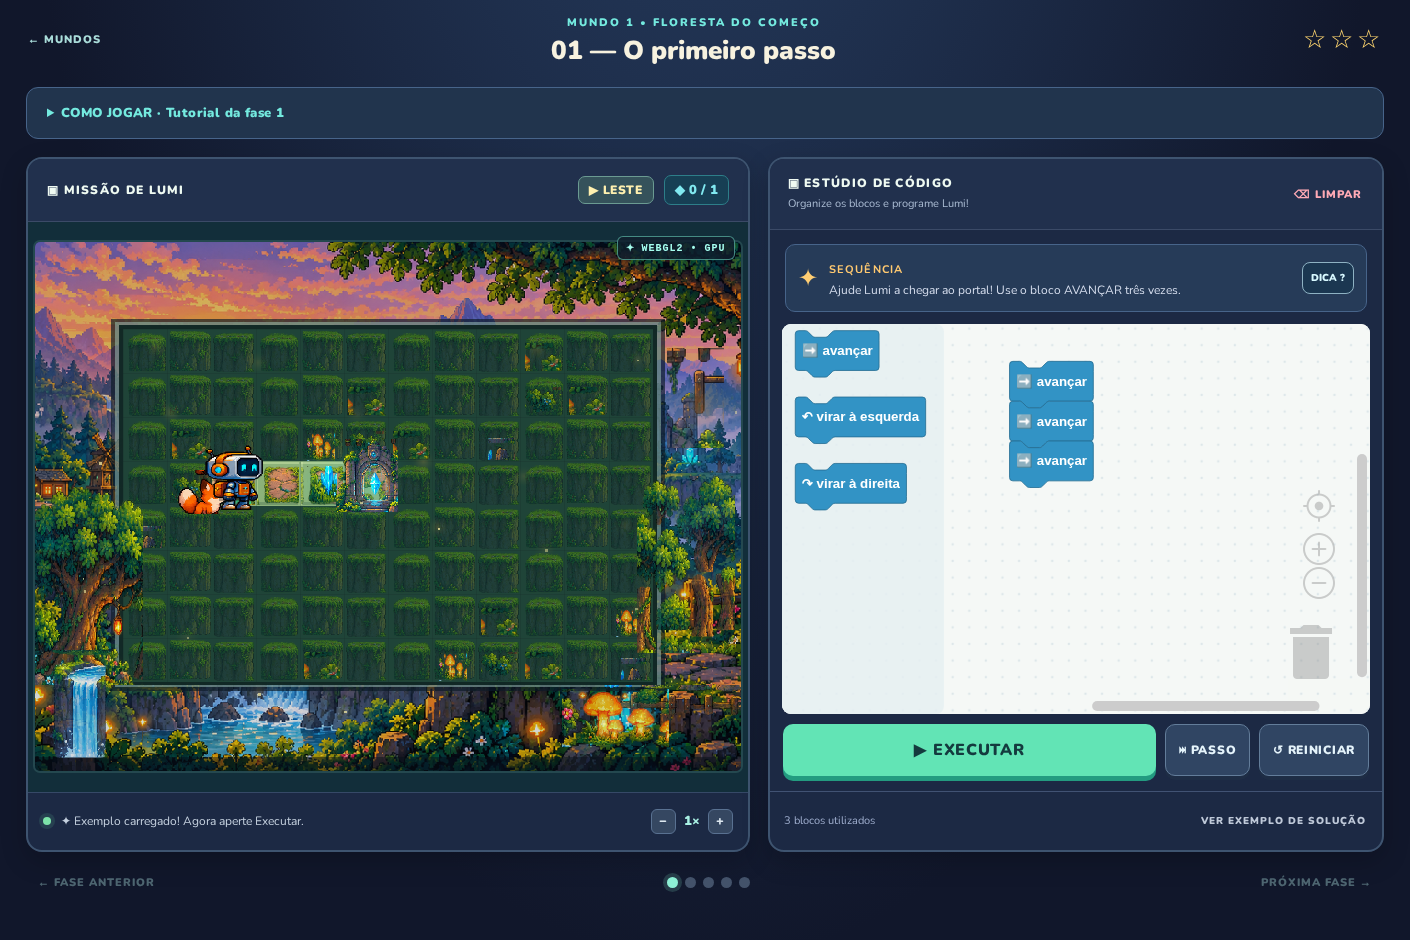
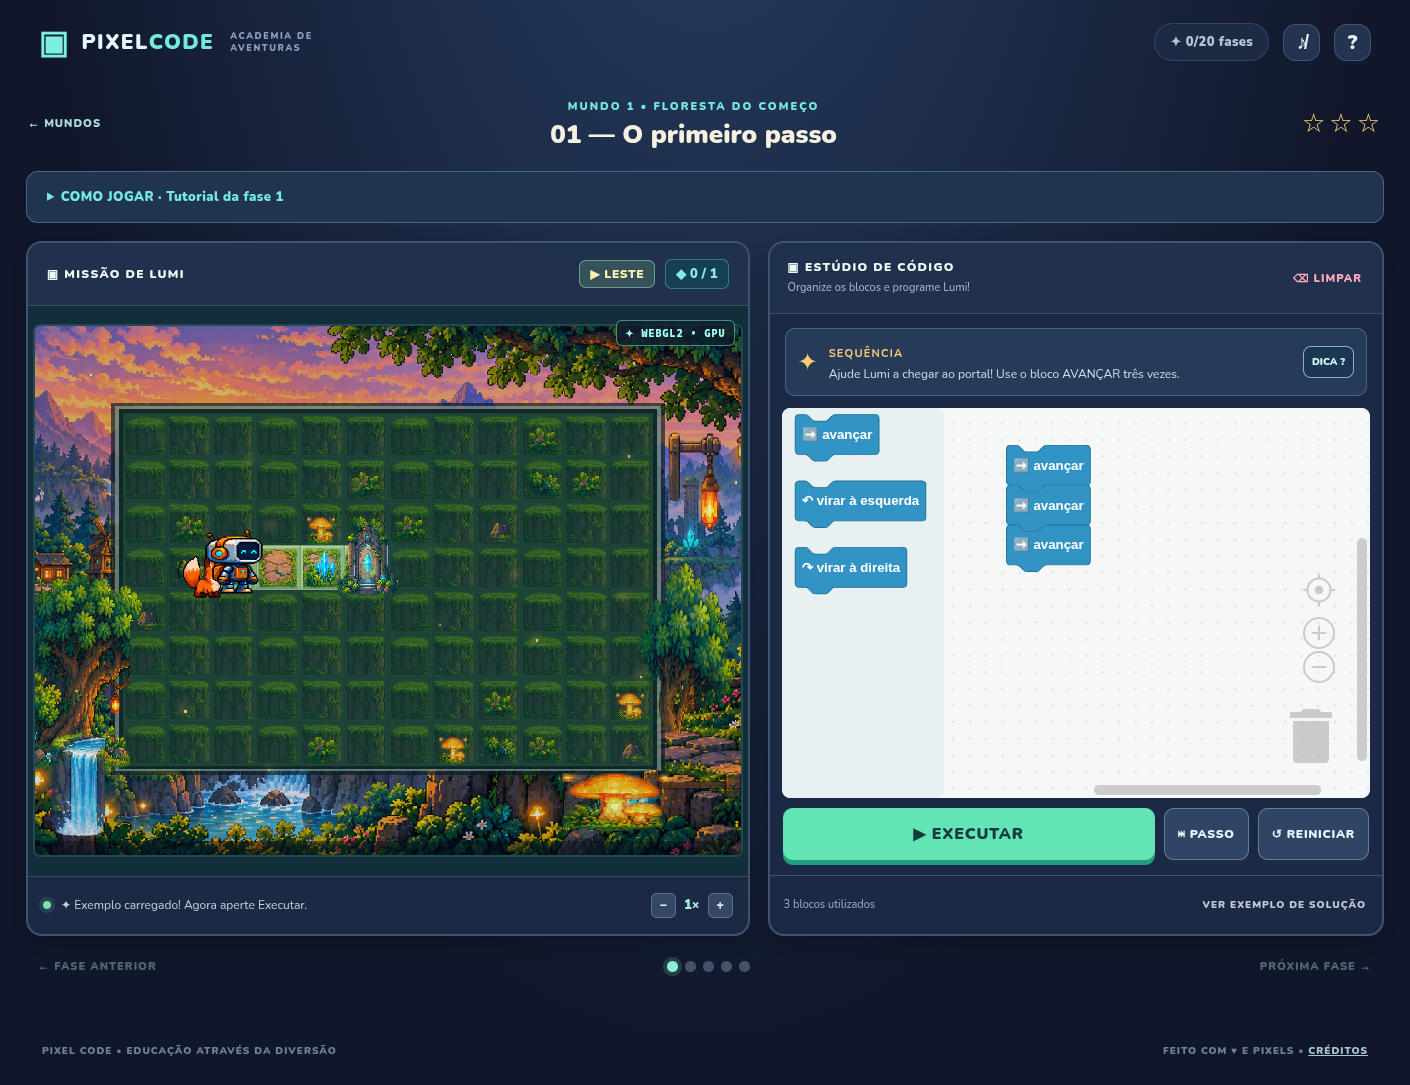
Fix sprite crops and refresh README screenshots

diff --git a/assets/art/gpu-atlas.js b/assets/art/gpu-atlas.js
@@ -1,1 +1,1 @@
-window.PIXEL_GPU_ATLAS={"width":2048,"height":2048,"frames":{"valley":{"x":2,"y":2,"w":1152,"h":648},"tree0":{"x":1156,"y":2,"w":317,"h":361},"tree1":{"x":1475,"y":2,"w":260,"h":341},"portal_new":{"x":1737,"y":2,"w":219,"h":279},"tree2":{"x":2,"y":652,"w":208,"h":254},"ruin1":{"x":212,"y":652,"w":111,"h":247},"ruin0":{"x":325,"y":652,"w":101,"h":240},"waterfall":{"x":428,"y":652,"w":133,"h":214},"waterfall2":{"x":563,"y":652,"w":152,"h":209},"robot_jump_0":{"x":717,"y":652,"w":144,"h":190},"robot_jump_4":{"x":863,"y":652,"w":128,"h":190},"robot_jump_5":{"x":993,"y":652,"w":163,"h":190},"robot_idle_2":{"x":1158,"y":652,"w":125,"h":181},"robot_idle_3":{"x":1285,"y":652,"w":122,"h":181},"robot_idle_5":{"x":1409,"y":652,"w":122,"h":181},"robot_idle_4":{"x":1533,"y":652,"w":123,"h":180},"robot_idle_1":{"x":1658,"y":652,"w":122,"h":179},"robot_idle_0":{"x":1782,"y":652,"w":124,"h":178},"robot_jump_1":{"x":2,"y":908,"w":157,"h":178},"robot_jump_2":{"x":161,"y":908,"w":171,"h":178},"robot_jump_3":{"x":334,"y":908,"w":177,"h":178},"robot_celebrate_0":{"x":513,"y":908,"w":183,"h":169},"robot_celebrate_1":{"x":698,"y":908,"w":179,"h":169},"robot_celebrate_2":{"x":879,"y":908,"w":178,"h":169},"robot_celebrate_3":{"x":1059,"y":908,"w":188,"h":169},"robot_celebrate_4":{"x":1249,"y":908,"w":182,"h":169},"robot_celebrate_5":{"x":1433,"y":908,"w":181,"h":169},"robot_walk_5":{"x":1616,"y":908,"w":141,"h":159},"robot_walk_6":{"x":1759,"y":908,"w":136,"h":159},"robot_walk_7":{"x":1897,"y":908,"w":143,"h":159},"robot_walk_0":{"x":2,"y":1088,"w":115,"h":158},"robot_walk_1":{"x":119,"y":1088,"w":116,"h":158},"robot_walk_2":{"x":237,"y":1088,"w":115,"h":158},"robot_walk_3":{"x":354,"y":1088,"w":113,"h":158},"robot_walk_4":{"x":469,"y":1088,"w":112,"h":158},"fox_happy_0":{"x":583,"y":1088,"w":203,"h":157},"fox_happy_1":{"x":788,"y":1088,"w":197,"h":157},"fox_happy_2":{"x":987,"y":1088,"w":186,"h":157},"fox_happy_3":{"x":1175,"y":1088,"w":256,"h":157},"robot_interact_0":{"x":1433,"y":1088,"w":150,"h":156},"robot_interact_4":{"x":1585,"y":1088,"w":196,"h":156},"robot_interact_5":{"x":1783,"y":1088,"w":180,"h":156},"ground1":{"x":2,"y":1248,"w":167,"h":154},"fox_idle_0":{"x":171,"y":1248,"w":168,"h":151},"fox_idle_1":{"x":341,"y":1248,"w":169,"h":151},"fox_idle_2":{"x":512,"y":1248,"w":170,"h":151},"fox_idle_3":{"x":684,"y":1248,"w":168,"h":151},"ground2":{"x":854,"y":1248,"w":126,"h":150},"fox_jump_0":{"x":982,"y":1248,"w":230,"h":147},"fox_jump_3":{"x":1214,"y":1248,"w":316,"h":147},"fox_wag_0":{"x":1532,"y":1248,"w":180,"h":146},"fox_wag_1":{"x":1714,"y":1248,"w":225,"h":146},"fox_wag_3":{"x":2,"y":1404,"w":206,"h":146},"fox_sit_3":{"x":210,"y":1404,"w":205,"h":145},"fox_jump_1":{"x":417,"y":1404,"w":250,"h":145},"lamp":{"x":669,"y":1404,"w":93,"h":145},"robot_run_0":{"x":764,"y":1404,"w":121,"h":142},"robot_run_3":{"x":887,"y":1404,"w":142,"h":142},"robot_run_5":{"x":1031,"y":1404,"w":145,"h":142},"robot_run_7":{"x":1178,"y":1404,"w":164,"h":142},"fox_sit_0":{"x":1344,"y":1404,"w":150,"h":142},"robot_run_1":{"x":1496,"y":1404,"w":145,"h":141},"fox_run_0":{"x":1643,"y":1404,"w":265,"h":141},"fox_run_1":{"x":2,"y":1552,"w":261,"h":141},"fox_run_2":{"x":265,"y":1552,"w":266,"h":141},"fox_run_3":{"x":533,"y":1552,"w":286,"h":141},"robot_run_2":{"x":821,"y":1552,"w":141,"h":140},"robot_run_4":{"x":964,"y":1552,"w":139,"h":140},"robot_run_6":{"x":1105,"y":1552,"w":141,"h":139},"fox_sit_1":{"x":1248,"y":1552,"w":166,"h":138},"fox_walk_0":{"x":1416,"y":1552,"w":215,"h":137},"fox_walk_1":{"x":1633,"y":1552,"w":216,"h":137},"fox_walk_2":{"x":2,"y":1695,"w":205,"h":137},"fox_walk_3":{"x":209,"y":1695,"w":240,"h":137},"fox_sit_2":{"x":451,"y":1695,"w":168,"h":136},"fox_jump_2":{"x":621,"y":1695,"w":285,"h":136},"robot_interact_1":{"x":908,"y":1695,"w":154,"h":135},"robot_interact_2":{"x":1064,"y":1695,"w":175,"h":135},"robot_interact_3":{"x":1241,"y":1695,"w":185,"h":135},"bridge":{"x":1428,"y":1695,"w":187,"h":135},"light":{"x":1617,"y":1695,"w":128,"h":128},"fox_wag_2":{"x":1747,"y":1695,"w":202,"h":122},"shroom":{"x":2,"y":1834,"w":238,"h":121},"ground0":{"x":242,"y":1834,"w":134,"h":118},"path2":{"x":378,"y":1834,"w":118,"h":107},"path4":{"x":498,"y":1834,"w":114,"h":107},"path5":{"x":614,"y":1834,"w":111,"h":106},"path0":{"x":727,"y":1834,"w":115,"h":105},"path3":{"x":844,"y":1834,"w":111,"h":105},"path1":{"x":957,"y":1834,"w":108,"h":102},"crystal1":{"x":1067,"y":1834,"w":161,"h":99},"crate":{"x":1230,"y":1834,"w":91,"h":90},"bush0":{"x":1323,"y":1834,"w":94,"h":80},"bush1":{"x":1419,"y":1834,"w":112,"h":80},"fence":{"x":1533,"y":1834,"w":353,"h":78},"sign":{"x":2,"y":1957,"w":168,"h":74},"crystal0":{"x":172,"y":1957,"w":108,"h":70},"rocks":{"x":282,"y":1957,"w":139,"h":64},"bush2":{"x":423,"y":1957,"w":66,"h":57},"white":{"x":491,"y":1957,"w":2,"h":2}}};
+window.PIXEL_GPU_ATLAS={"width":2048,"height":2048,"frames":{"valley":{"x":2,"y":2,"w":1152,"h":648},"tree0":{"x":1156,"y":2,"w":330,"h":382},"portal_new":{"x":1488,"y":2,"w":339,"h":298},"ruin0":{"x":1829,"y":2,"w":110,"h":256},"waterfall2":{"x":2,"y":652,"w":163,"h":240},"waterfall":{"x":167,"y":652,"w":127,"h":218},"tree1":{"x":296,"y":652,"w":223,"h":190},"ruin1":{"x":521,"y":652,"w":92,"h":182},"robot_idle_2":{"x":615,"y":652,"w":125,"h":181},"robot_idle_3":{"x":742,"y":652,"w":122,"h":181},"robot_idle_5":{"x":866,"y":652,"w":122,"h":181},"robot_idle_4":{"x":990,"y":652,"w":123,"h":180},"robot_idle_1":{"x":1115,"y":652,"w":122,"h":179},"robot_idle_0":{"x":1239,"y":652,"w":124,"h":178},"bridge":{"x":1365,"y":652,"w":163,"h":177},"robot_jump_2":{"x":1530,"y":652,"w":150,"h":168},"robot_jump_1":{"x":1682,"y":652,"w":131,"h":166},"robot_celebrate_2":{"x":1815,"y":652,"w":180,"h":163},"robot_celebrate_4":{"x":2,"y":894,"w":165,"h":161},"fox_happy_2":{"x":169,"y":894,"w":215,"h":161},"robot_walk_5":{"x":386,"y":894,"w":115,"h":159},"robot_walk_6":{"x":503,"y":894,"w":116,"h":159},"robot_walk_0":{"x":621,"y":894,"w":115,"h":158},"robot_walk_1":{"x":738,"y":894,"w":116,"h":158},"robot_walk_2":{"x":856,"y":894,"w":115,"h":158},"robot_walk_3":{"x":973,"y":894,"w":113,"h":158},"robot_walk_4":{"x":1088,"y":894,"w":114,"h":158},"robot_walk_7":{"x":1204,"y":894,"w":111,"h":158},"robot_celebrate_5":{"x":1317,"y":894,"w":150,"h":158},"robot_celebrate_0":{"x":1469,"y":894,"w":168,"h":157},"robot_celebrate_3":{"x":1639,"y":894,"w":182,"h":157},"robot_run_7":{"x":1823,"y":894,"w":128,"h":156},"robot_interact_0":{"x":2,"y":1057,"w":116,"h":156},"robot_interact_2":{"x":120,"y":1057,"w":165,"h":156},"robot_interact_4":{"x":287,"y":1057,"w":159,"h":156},"ground1":{"x":448,"y":1057,"w":172,"h":156},"robot_run_3":{"x":622,"y":1057,"w":127,"h":155},"robot_run_5":{"x":751,"y":1057,"w":149,"h":155},"robot_interact_1":{"x":902,"y":1057,"w":157,"h":155},"robot_interact_3":{"x":1061,"y":1057,"w":159,"h":155},"robot_run_1":{"x":1222,"y":1057,"w":129,"h":154},"fox_happy_3":{"x":1353,"y":1057,"w":198,"h":154},"robot_run_2":{"x":1553,"y":1057,"w":140,"h":153},"robot_run_4":{"x":1695,"y":1057,"w":134,"h":153},"robot_jump_3":{"x":1831,"y":1057,"w":140,"h":153},"robot_run_6":{"x":2,"y":1215,"w":142,"h":152},"robot_run_0":{"x":146,"y":1215,"w":136,"h":151},"fox_idle_0":{"x":284,"y":1215,"w":168,"h":151},"fox_idle_1":{"x":454,"y":1215,"w":169,"h":151},"fox_idle_2":{"x":625,"y":1215,"w":170,"h":151},"fox_idle_3":{"x":797,"y":1215,"w":168,"h":151},"ground2":{"x":967,"y":1215,"w":129,"h":151},"robot_interact_5":{"x":1098,"y":1215,"w":117,"h":150},"fox_happy_0":{"x":1217,"y":1215,"w":203,"h":149},"fox_sit_0":{"x":1422,"y":1215,"w":150,"h":147},"robot_jump_0":{"x":1574,"y":1215,"w":120,"h":145},"fox_happy_1":{"x":1696,"y":1215,"w":195,"h":145},"fox_walk_0":{"x":2,"y":1369,"w":215,"h":144},"fox_sit_1":{"x":219,"y":1369,"w":166,"h":144},"robot_jump_5":{"x":387,"y":1369,"w":119,"h":143},"robot_celebrate_1":{"x":508,"y":1369,"w":159,"h":143},"fox_walk_1":{"x":669,"y":1369,"w":216,"h":143},"fox_walk_2":{"x":887,"y":1369,"w":218,"h":143},"fox_walk_3":{"x":1107,"y":1369,"w":206,"h":143},"robot_jump_4":{"x":1315,"y":1369,"w":128,"h":142},"fox_sit_2":{"x":1445,"y":1369,"w":168,"h":141},"sign":{"x":1615,"y":1369,"w":79,"h":141},"fox_sit_3":{"x":1696,"y":1369,"w":154,"h":140},"fox_wag_0":{"x":1852,"y":1369,"w":180,"h":138},"fox_wag_1":{"x":2,"y":1515,"w":191,"h":134},"fox_wag_2":{"x":195,"y":1515,"w":202,"h":134},"fox_wag_3":{"x":399,"y":1515,"w":203,"h":134},"fox_run_3":{"x":604,"y":1515,"w":252,"h":132},"fox_run_2":{"x":858,"y":1515,"w":246,"h":131},"fox_run_1":{"x":1106,"y":1515,"w":254,"h":130},"fox_jump_1":{"x":1362,"y":1515,"w":256,"h":129},"light":{"x":1620,"y":1515,"w":128,"h":128},"fox_run_0":{"x":1750,"y":1515,"w":271,"h":127},"fox_jump_0":{"x":2,"y":1651,"w":230,"h":126},"fox_jump_2":{"x":234,"y":1651,"w":255,"h":125},"crystal1":{"x":491,"y":1651,"w":123,"h":125},"path2":{"x":616,"y":1651,"w":220,"h":119},"path4":{"x":838,"y":1651,"w":176,"h":119},"ground0":{"x":1016,"y":1651,"w":128,"h":118},"path3":{"x":1146,"y":1651,"w":124,"h":116},"shroom":{"x":1272,"y":1651,"w":105,"h":116},"fox_jump_3":{"x":1379,"y":1651,"w":242,"h":111},"path0":{"x":1623,"y":1651,"w":113,"h":101},"path1":{"x":1738,"y":1651,"w":113,"h":101},"crate":{"x":1853,"y":1651,"w":79,"h":100},"lamp":{"x":1934,"y":1651,"w":89,"h":93},"tree2":{"x":2,"y":1779,"w":111,"h":90},"path5":{"x":115,"y":1779,"w":107,"h":87},"crystal0":{"x":224,"y":1779,"w":104,"h":83},"bush0":{"x":330,"y":1779,"w":94,"h":81},"bush1":{"x":426,"y":1779,"w":99,"h":75},"rocks":{"x":527,"y":1779,"w":90,"h":69},"fence":{"x":619,"y":1779,"w":161,"h":64},"bush2":{"x":782,"y":1779,"w":71,"h":49},"white":{"x":855,"y":1779,"w":2,"h":2}}};

diff --git a/tools/build_atlas.py b/tools/build_atlas.py
@@ -2,7 +2,7 @@
 """Rebuild the local WebGL atlas from the four original commissioned pixel-art sources.
 No asset downloaded at runtime. The transparent sprite strips are exported for the UI.
 """
-from PIL import Image, ImageDraw, ImageFilter
+from PIL import Image, ImageDraw, ImageChops
 from pathlib import Path
 import json,math
 BASE=Path(__file__).resolve().parents[1]; ART=BASE/'assets'/'art';SRC=ART/'source'
@@ -12,6 +12,39 @@ fox=Image.open(SRC/'fox-sheet.png').convert('RGBA')
 tiles=Image.open(SRC/'forest-kit.png').convert('RGBA')
 back=Image.open(SRC/'enchanted-valley.png').convert('RGBA')
 assets={}
+# Non-rectangular boundaries separate artwork that overlaps neighboring rows.
+outlines={
+ 'robot_run_3':[(630,390),(775,390),(775,555),(676,555),(676,550),(662,550),(662,555),(630,555)],
+ 'robot_jump_2':[(555,554),(650,554),(650,548),(685,548),(685,554),(730,554),(730,725),(555,725)],
+ 'robot_interact_2':[(575,748),(760,748),(760,900),(700,900),(700,912),(575,912)],
+ 'robot_celebrate_0':[(236,913),(410,913),(410,1080),(230,1080),(230,1011),(236,1011)],
+ 'robot_celebrate_2':[(598,909),(700,909),(700,904),(790,904),(790,1080),(598,1080)],
+ 'tree0':[(7,382),(50,382),(50,365),(318,365),(337,400),(337,452),(301,452),(301,739),(7,739)],
+ 'tree1':[(454,401),(489,401),(489,370),(620,370),(660,410),(660,527),(544,553),(544,688),(478,688),(478,518),(437,497),(437,436),(454,436)],
+ 'tree2':[(341,380),(452,380),(452,440),(416,440),(416,470),(378,470),(378,439),(341,439)],
+ 'bush0':[(402,596),(484,596),(484,660),(470,677),(390,677),(390,622),(402,622)],
+ 'bush1':[(397,677),(470,677),(470,695),(496,695),(496,752),(397,752)],
+ 'crystal0':[(731,670),(788,670),(788,698),(803,698),(803,753),(699,753),(699,695),(731,695)],
+ 'crystal1':[(866,690),(947,690),(947,748),(974,748),(974,815),(851,815),(851,752),(866,752)],
+ 'portal_new':[(1040,445),(1090,445),(1090,416),(1211,416),(1211,451),(1267,451),(1267,604),(1321,641),(1321,714),(982,714),(982,610),(1039,580)],
+ 'ruin0':[(795,419),(901,419),(901,675),(790,675),(790,640),(799,640),(799,500),(790,500)],
+ 'ruin1':[(922,443),(1014,443),(1014,625),(950,625),(950,520),(922,520)],
+ 'bridge':[(1041,265),(1204,265),(1204,404),(1115,404),(1115,442),(1041,442)],
+ 'fence':[(1073,780),(1110,780),(1110,771),(1140,771),(1140,787),(1209,787),(1209,777),(1234,777),(1234,835),(1073,835)],
+ 'lamp':[(1208,365),(1297,365),(1297,458),(1254,458),(1254,434),(1208,434)],
+}
+# Neighboring fragments inside a bounding box cannot be removed by trimming alpha.
+exclusions={
+ 'tree1':[(619,370,656,410),(437,485,465,512),(640,521,660,532),(489,370,505,382),(655,438,660,476),(577,370,597,375),(478,536,481,550),(437,436,445,441),(568,544,582,548),(511,370,516,371)],
+ 'portal_new':[(982,598,1015,625),(1090,416,1111,439),(982,695,1012,714),(1311,706,1321,714),(1210,416,1212,428),(1259,451,1268,454)],
+ 'ruin0':[(897,536,901,613),(893,419,901,436)],
+ 'ruin1':[(1004,443,1014,444)],
+ 'bridge':[(1051,265,1072,270)],
+ 'sign':[(1225,892,1228,907),(1301,956,1304,972)],
+ 'crystal0':[(731,670,740,680)],
+ 'crystal1':[(961,748,974,762),(866,715,869,737),(851,770,853,784)],
+ 'rocks':[(1208,777,1227,782)],
+}
 def add(n,img):
  img=img.convert('RGBA')
  if img.width<1 or img.height<1: raise ValueError(n)
@@ -19,6 +52,12 @@ def add(n,img):
 
 def piece(name,img,region,trim=False):
  sub=img.crop(region)
+ for x0,y0,x1,y1 in exclusions.get(name,[]):
+  ImageDraw.Draw(sub).rectangle((x0-region[0],y0-region[1],x1-region[0]-1,y1-region[1]-1),fill=(0,0,0,0))
+ if name in outlines:
+  mask=Image.new('L',sub.size)
+  ImageDraw.Draw(mask).polygon([(x-region[0],y-region[1]) for x,y in outlines[name]],fill=255)
+  sub.putalpha(ImageChops.multiply(sub.getchannel('A'),mask))
  if trim:
   a=sub.getchannel('A').point(lambda z:255 if z>14 else 0)
   b=a.getbbox()
@@ -26,48 +65,47 @@ def piece(name,img,region,trim=False):
  add(name,sub)
  return sub
 
+# The source sheets are not uniform grids; each frame needs its own bounds.
 robot_rows={
- 'idle':([190,352,512,680,845,1006,1170],(12,199)),
- 'walk':([191,327,467,612,752,895,1036,1172,1315],(206,379)),
- 'run':([184,320,465,606,748,887,1032,1173,1337],(385,540)),
- 'jump':([193,360,540,714,907,1072,1245],(541,731)),
- 'interact':([192,371,545,720,905,1101,1285],(731,887)),
- 'celebrate':([217,400,579,757,945,1127,1308],(888,1057)),
+ 'idle':[(190,12,352,205),(352,12,512,205),(512,12,680,205),(680,12,845,205),(845,12,1020,205),(1020,12,1180,205)],
+ 'walk':[(190,206,332,385),(332,206,476,385),(476,206,624,385),(624,206,768,385),(768,206,913,385),(913,206,1061,385),(1061,206,1208,385),(1208,206,1345,385)],
+ 'run':[(190,390,340,553),(340,390,480,553),(480,390,630,555),(630,390,775,555),(775,390,922,555),(922,390,1080,555),(1080,390,1230,555),(1230,390,1375,555)],
+ 'jump':[(205,580,345,747),(375,550,530,725),(555,548,730,725),(740,560,905,725),(930,590,1080,747),(1110,590,1250,747)],
+ 'interact':[(215,748,355,912),(380,748,558,912),(575,748,760,912),(770,748,950,912),(960,748,1138,912),(1155,748,1290,912)],
+ 'celebrate':[(230,913,410,1080),(425,915,598,1080),(598,904,790,1080),(790,913,985,1080),(985,909,1165,1080),(1185,910,1355,1080)],
 }
-for action,(bounds,(y0,y1)) in robot_rows.items():
- for j,(x0,x1) in enumerate(zip(bounds,bounds[1:])):
-  piece(f'robot_{action}_{j}',robot,(x0,y0,x1,y1),True)
 fox_rows={
- 'idle':([(211,418),(445,655),(699,907),(939,1155)],(9,170)),
- 'walk':([(211,459),(479,723),(726,969),(975,1215)],(171,314)),
- 'run':([(207,488),(490,751),(755,1021),(1018,1304)],(318,459)),
- 'sit':([(210,441),(451,694),(723,963),(966,1205)],(463,608)),
- 'jump':([(215,486),(487,748),(750,1035),(1038,1360)],(606,753)),
- 'wag':([(214,448),(453,711),(724,966),(969,1218)],(749,895)),
- 'happy':([(240,477),(480,737),(735,998),(994,1250)],(894,1051)),
+ 'idle':[(211,9,418,171),(445,9,655,171),(699,9,907,171),(939,9,1155,171)],
+ 'walk':[(220,172,460,325),(480,172,725,325),(750,172,990,325),(1000,172,1230,325)],
+ 'run':[(210,328,500,465),(500,328,775,468),(780,328,1045,470),(1050,328,1320,470)],
+ 'sit':[(235,465,410,618),(495,468,685,618),(750,470,942,618),(1005,470,1185,617)],
+ 'jump':[(230,635,480,768),(487,618,765,758),(795,616,1070,750),(1100,645,1365,768)],
+ 'wag':[(214,768,448,908),(475,768,711,908),(750,768,969,908),(1000,768,1225,908)],
+ 'happy':[(250,915,480,1080),(515,918,735,1080),(800,909,1035,1080),(1055,910,1280,1080)],
 }
-for action,(regions,(y0,y1)) in fox_rows.items():
- for j,(x0,x1) in enumerate(regions):
-  piece(f'fox_{action}_{j}',fox,(x0,y0,x1,y1),True)
+for character,source,rows in [('robot',robot,robot_rows),('fox',fox,fox_rows)]:
+ for action,regions in rows.items():
+  for j,region in enumerate(regions):
+   piece(f'{character}_{action}_{j}',source,region,True)
 # Scene background sized for pixel-perfect 768x576 canvas and UV atlas.
 back=back.resize((1152,648),Image.Resampling.LANCZOS)
 add('valley',back)
 # Atmospheric/terrain atlas pieces selected from the generated environment art.
 regions={
- 'path0':(668,8,783,113),'path1':(781,8,889,110),'path2':(668,117,786,224),
- 'path3':(783,122,894,227),'path4':(676,241,790,348),'path5':(789,240,900,346),
- 'ground0':(8,10,142,128),'ground1':(147,15,314,169),'ground2':(16,127,142,277),
- 'tree0':(10,361,327,722),'tree1':(336,372,596,713),
- 'tree2':(584,440,792,694),
- 'bush0':(301,677,395,757),'bush1':(396,674,508,754),
- 'bush2':(1010,815,1076,872),'shroom':(634,756,872,877),
- 'crystal0':(681,683,789,753),'crystal1':(793,693,954,792),
- 'rocks':(1110,691,1249,755),'portal_new':(1018,408,1237,687),
- 'ruin0':(775,434,876,674),'ruin1':(898,439,1009,686),
- 'bridge':(1007,267,1194,402), 'fence':(1047,754,1400,832),
- 'waterfall':(6,726,139,940),'waterfall2':(144,727,296,936),
- 'lamp':(1167,334,1260,479),'sign':(1171,830,1339,904),
- 'crate':(1332,977,1423,1067),
+ 'path0':(682,12,795,113),'path1':(800,12,913,113),'path2':(690,114,910,233),
+ 'path3':(914,116,1038,232),'path4':(691,235,867,354),'path5':(872,235,979,322),
+ 'ground0':(16,12,144,130),'ground1':(148,12,320,168),'ground2':(16,130,145,281),
+ 'tree0':(7,357,337,739),'tree1':(437,370,660,560),
+ 'tree2':(341,380,452,470),
+ 'bush0':(390,596,484,677),'bush1':(397,677,496,752),
+ 'bush2':(1033,838,1104,887),'shroom':(674,760,779,876),
+ 'crystal0':(699,670,803,753),'crystal1':(851,690,974,815),
+ 'rocks':(1140,713,1230,782),'portal_new':(982,416,1321,714),
+ 'ruin0':(791,419,901,675),'ruin1':(922,443,1014,625),
+ 'bridge':(1041,265,1204,442), 'fence':(1073,771,1234,835),
+ 'waterfall':(12,743,139,961),'waterfall2':(139,745,302,985),
+ 'lamp':(1208,365,1297,458),'sign':(1225,838,1304,979),
+ 'crate':(1352,973,1431,1073),
 }
 for n,reg in regions.items():piece(n,tiles,reg,False)
 # Procedural prebaked soft alpha light halo, texture is GPU sampled.

diff --git a/tests/assets.py b/tests/assets.py
@@ -1,0 +1,84 @@
+"""Rebuild and check sprite crops/exports. Run with Python 3 and Pillow."""
+from pathlib import Path
+from PIL import Image, ImageChops
+import json
+import runpy
+
+ROOT = Path(__file__).resolve().parents[1]
+
+
+def components(image):
+    """Find visible connected artwork, including diagonal pixel-art outlines."""
+    width, height = image.size
+    remaining = bytearray(image.getchannel('A').point(lambda a: 255 if a > 14 else 0).tobytes())
+    for start in range(len(remaining)):
+        if not remaining[start]:
+            continue
+        remaining[start] = 0
+        pending, pixels = [start], []
+        while pending:
+            pixel = pending.pop()
+            x, y = pixel % width, pixel // width
+            pixels.append((x, y))
+            for yy in range(max(0, y - 1), min(height, y + 2)):
+                for xx in range(max(0, x - 1), min(width, x + 2)):
+                    index = yy * width + xx
+                    if remaining[index]:
+                        remaining[index] = 0
+                        pending.append(index)
+        # Ignore isolated antialiasing specks, but keep tails and particle effects.
+        if len(pixels) > 100:
+            yield pixels
+
+
+def check_character_crops(build):
+    checked = 0
+    for character in ('robot', 'fox'):
+        source = build[character]
+        artwork = list(components(source))
+        for action, regions in build[character + '_rows'].items():
+            for index, region in enumerate(regions):
+                name = f'{character}_{action}_{index}'
+                x0, y0, x1, y1 = region
+                alpha = build['piece'](name, source, region).getchannel('A')
+                bodies = 0
+                for pixels in artwork:
+                    visible = sum(x0 <= x < x1 and y0 <= y < y1 and alpha.getpixel((x - x0, y - y0)) > 14
+                                  for x, y in pixels)
+                    assert visible in (0, len(pixels)), f'{name}: cropped artwork or neighbor fragment ({visible}/{len(pixels)} pixels)'
+                    bodies += visible > 10000
+                assert bodies == 1, f'{name}: expected one complete character, got {bodies}'
+                checked += 1
+    assert checked == 68
+
+
+def check_exports(build):
+    art = ROOT / 'assets/art'
+    meta = json.loads((art / 'gpu-atlas.json').read_text())
+    assert (art / 'gpu-atlas.js').read_text() == 'window.PIXEL_GPU_ATLAS=' + (art / 'gpu-atlas.json').read_text() + ';'
+    atlas = Image.open(art / 'gpu-atlas.webp').convert('RGBA')
+    assert atlas.size == (meta['width'], meta['height'])
+    assert len(meta['frames']) == 100
+    for name, frame in meta['frames'].items():
+        x, y, w, h = (frame[key] for key in ('x', 'y', 'w', 'h'))
+        assert 0 <= x < x + w <= atlas.width and 0 <= y < y + h <= atlas.height, name
+        actual = atlas.crop((x, y, x + w, y + h))
+        expected = build['assets'][name]
+        assert actual.size == expected.size, name
+        assert ImageChops.difference(actual.getchannel('A'), expected.getchannel('A')).getbbox() is None, name
+        for background in ('black', 'white'):
+            rendered = [Image.alpha_composite(Image.new('RGBA', image.size, background), image).convert('RGB')
+                        for image in (actual, expected)]
+            assert ImageChops.difference(*rendered).getbbox() is None, name
+    for character, length, size in [('robot', 6, (110, 126)), ('fox', 4, (136, 112))]:
+        strip = Image.open(art / f'{character}-idle-strip.png').convert('RGBA')
+        portrait = Image.open(art / f'{character}-portrait.png').convert('RGBA')
+        assert strip.size == (length * size[0], size[1])
+        assert portrait.tobytes() == strip.crop((0, 0, *size)).tobytes()
+
+
+if __name__ == '__main__':
+    build = runpy.run_path(str(ROOT / 'tools/build_atlas.py'))
+    check_exports(build)
+    check_character_crops(build)
+    print('OK: 68 complete character frames, 100 atlas entries, menu strips and portraits.')

diff --git a/README.md b/README.md
@@ -132,7 +132,7 @@ Para atividades acompanhadas, o [guia do educador](docs/GUIA-EDUCADOR.md) traz u
 
 </details>
 
-<sub>Capturas reais da versão alpha, feitas no Chromium. A aparência pode variar conforme o navegador e o dispositivo.</sub>
+<sub>Capturas reais da versão alpha, atualizadas após a revisão dos recortes de Lumi, Faísca e do cenário. Feitas no Chromium; a aparência pode variar conforme o navegador e o dispositivo.</sub>
 
 ## Por dentro do projeto
 
@@ -169,6 +169,14 @@ npm test
 ```
 
 Verifica as rotas e executa uma solução vencedora para cada uma das 20 fases.
+
+**Assets — requer Python 3 e Pillow:**
+
+```bash
+python3 tests/assets.py
+```
+
+Regenera os assets e verifica os 68 quadros dos personagens contra a arte original, detectando partes cortadas e fragmentos de vizinhos. Confere também os 100 itens do atlas, os metadados, os retratos e as faixas de animação do menu.
 
 **Interface — requer Playwright, Chromium e o servidor local em execução:**
 
